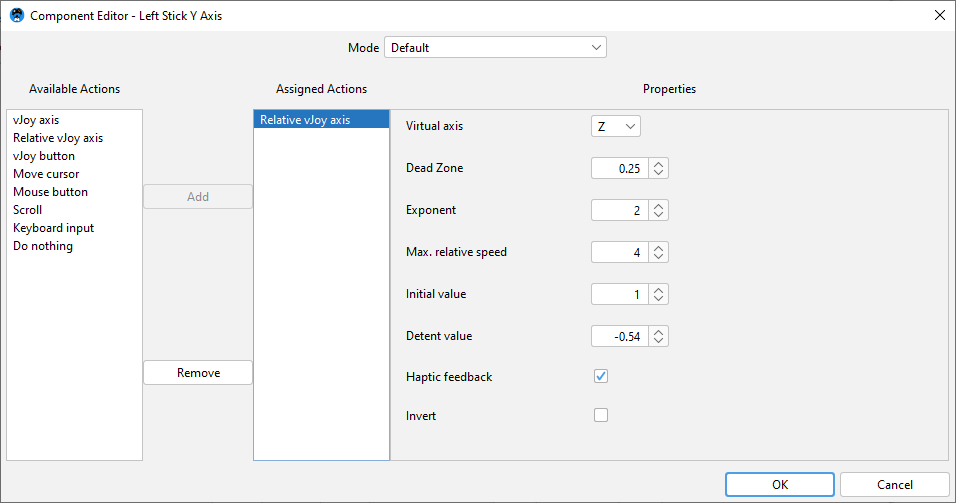
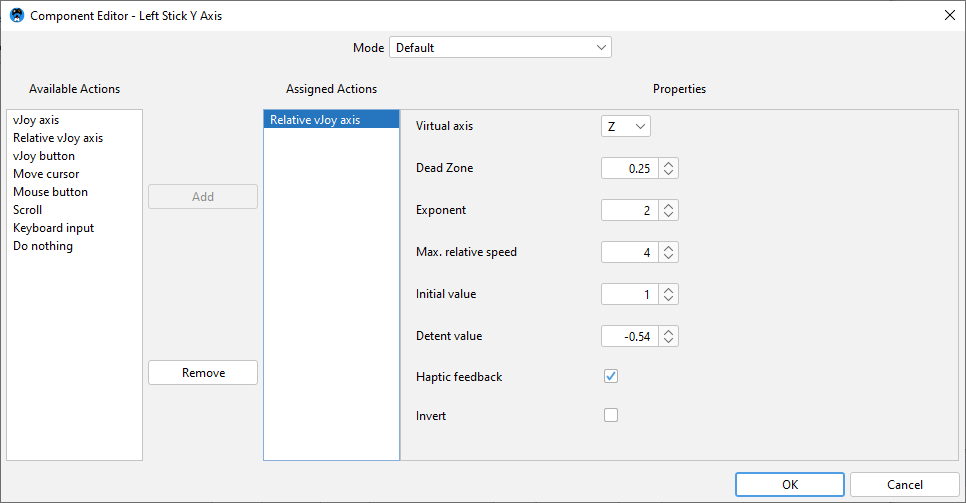
EditActionsDialog: insets for Add / Remove buttons

diff --git a/src/main/java/de/bwravencl/controllerbuddy/gui/EditActionsDialog.java b/src/main/java/de/bwravencl/controllerbuddy/gui/EditActionsDialog.java
@@ -232,7 +232,7 @@ public final class EditActionsDialog extends JDialog {
 
 	private static final Logger log = Logger.getLogger(EditActionsDialog.class.getName());
 
-	private static final int DIALOG_BOUNDS_WIDTH = 970;
+	private static final int DIALOG_BOUNDS_WIDTH = 980;
 	private static final int DIALOG_BOUNDS_HEIGHT = 510;
 	private static final int DIALOG_BOUNDS_PARENT_OFFSET = 25;
 
@@ -429,13 +429,13 @@ public final class EditActionsDialog extends JDialog {
 		addButton.setPreferredSize(BUTTON_DIMENSION);
 		addButton.setEnabled(false);
 		actionsPanel.add(addButton, new GridBagConstraints(1, 2, 1, 2, 0d, 1d, GridBagConstraints.CENTER,
-				GridBagConstraints.NONE, new Insets(0, 0, 0, 0), 0, 0));
+				GridBagConstraints.NONE, new Insets(0, 5, 0, 5), 0, 0));
 
 		final var removeButton = new JButton(new RemoveActionAction());
 		removeButton.setPreferredSize(BUTTON_DIMENSION);
 		removeButton.setEnabled(false);
 		actionsPanel.add(removeButton, new GridBagConstraints(1, 4, 1, 2, 0d, 1d, GridBagConstraints.CENTER,
-				GridBagConstraints.NONE, new Insets(0, 0, 0, 0), 0, 0));
+				GridBagConstraints.NONE, new Insets(0, 5, 0, 5), 0, 0));
 
 		availableActionsList.setSelectionMode(ListSelectionModel.SINGLE_SELECTION);
 		availableActionsList.addListSelectionListener(e -> {
